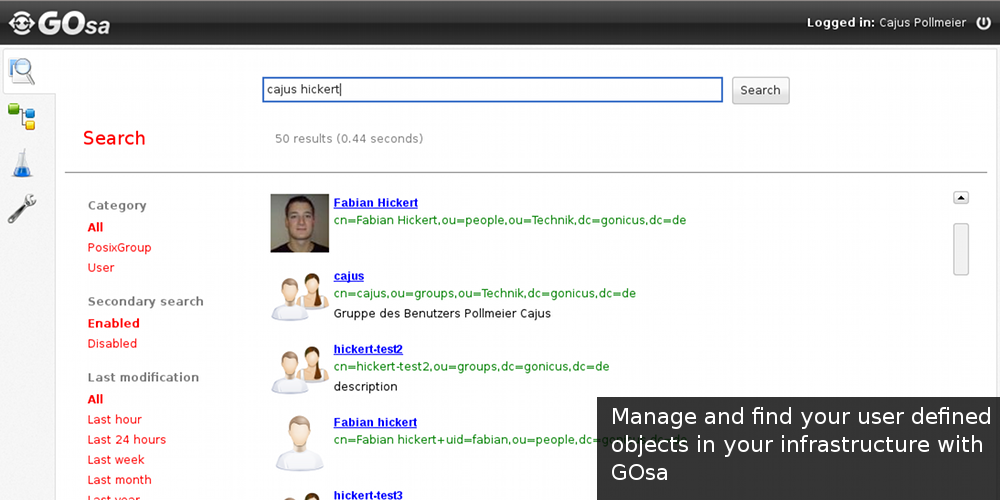
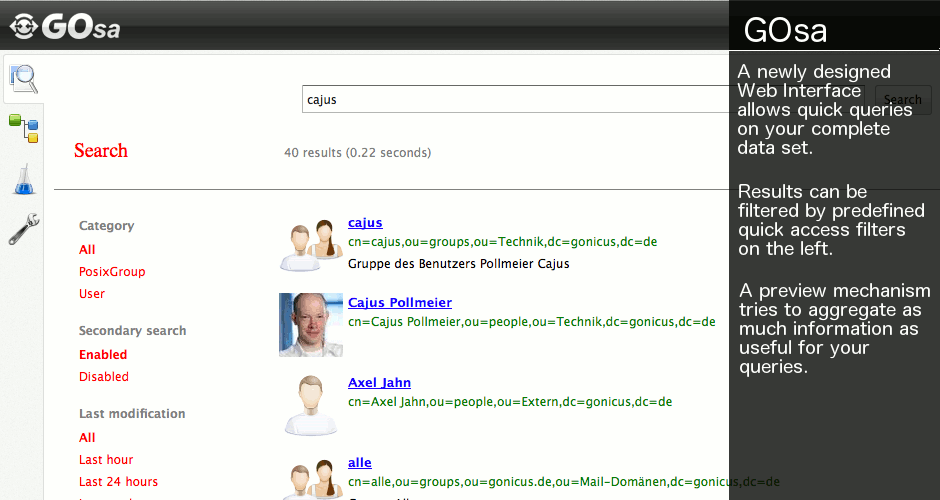
Updated slide images

diff --git a/doc/themes/clacks/layout.html b/doc/themes/clacks/layout.html
@@ -77,7 +77,7 @@
           <img src="_static/slide-gosa-search.png">
         </div>
         <div class="box">
-          <img src="_static/slide-gosa-edit.png">
+          <img src="_static/slide-gosa-objects.png">
         </div>
         <div class="box">
           <div id="tt" onClick='stopStart();'></div>
@@ -90,6 +90,7 @@
     </div>
  
 <script type="text/javascript">
+  stopStart();
 
   function highlightNo(arg) {
     var caller = arg;
